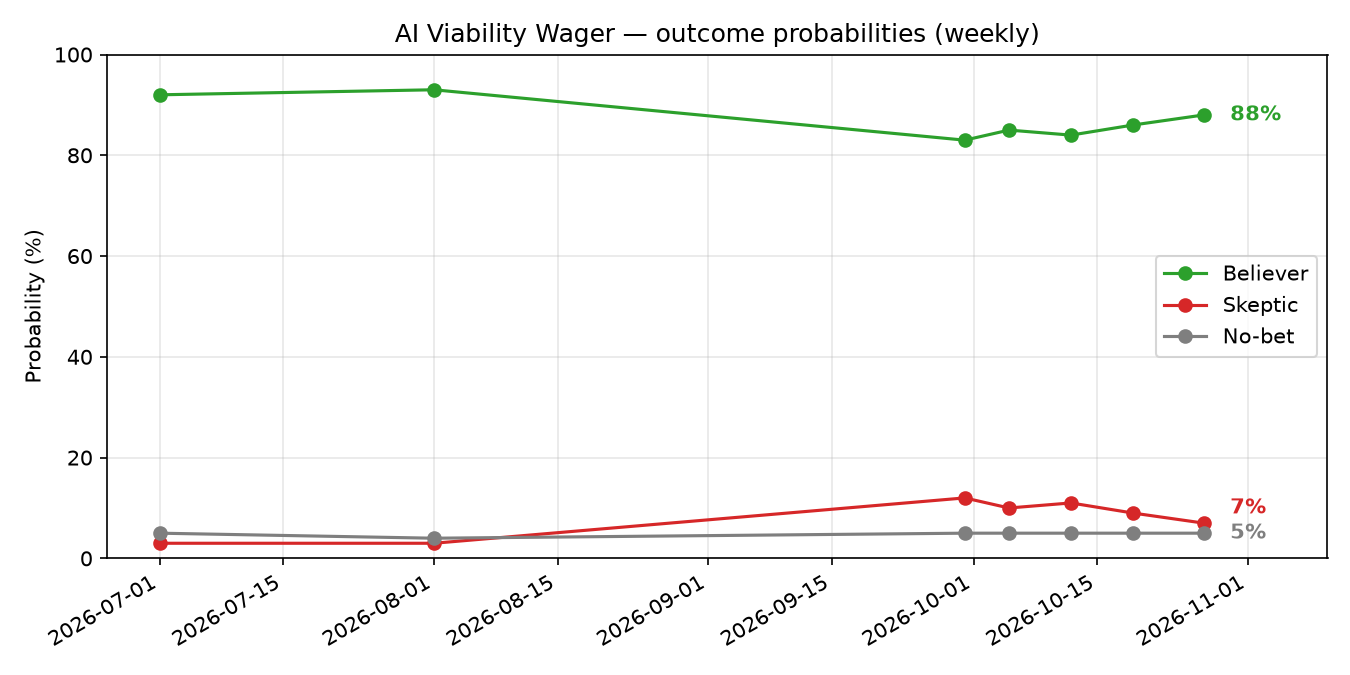
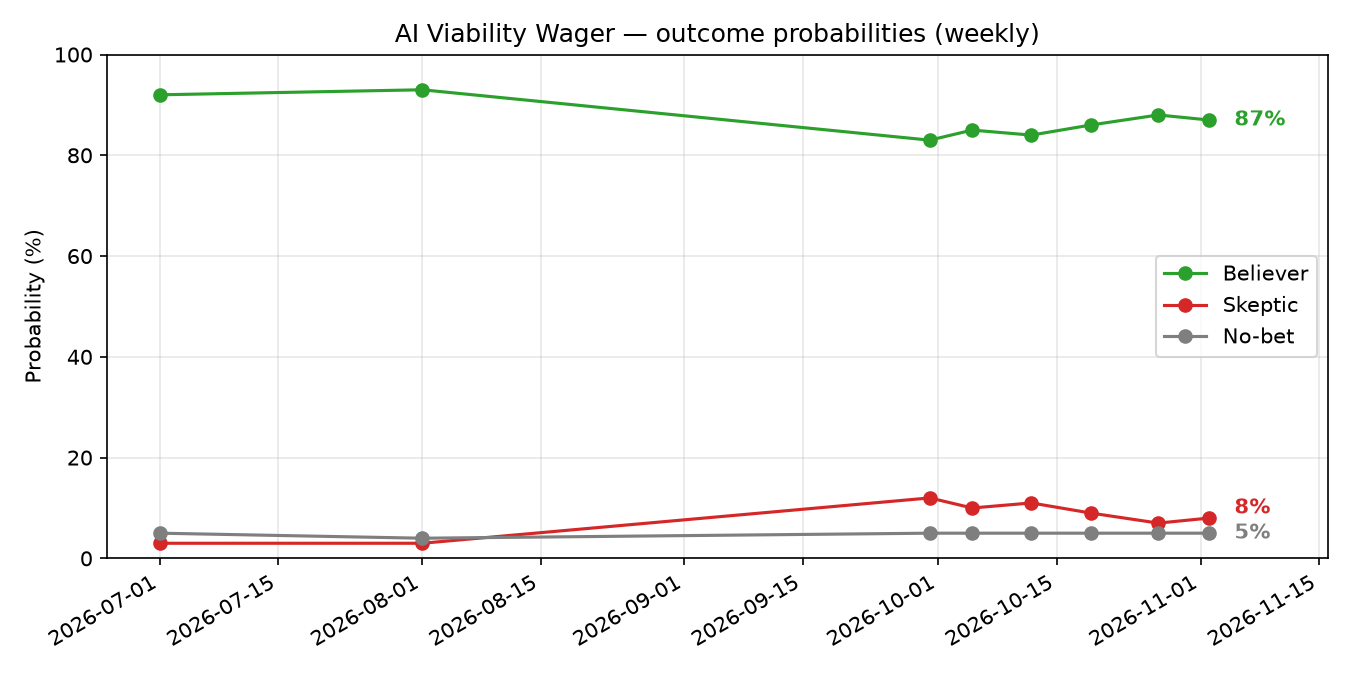
AI Viability Wager: weekly update 2026-11-02

diff --git a/ai-wager.md b/ai-wager.md
@@ -27,6 +27,12 @@ title: AI Viability Wager
 
 Newest first.
 
+### Nov 2, 2026
+
+- **Believer**: 87% &nbsp;&nbsp; **Skeptic**: 8% &nbsp;&nbsp; **No‑bet**: 5%
+- OpenAI cut its new round to ~$20B from ~$30B at a $1.25T post-money valuation as some investors trimmed allocations, with the first close expected below $20B (FT, CNBC, Oct 31).
+- A tech selloff left the Nasdaq 7.8% below its Oct 6 high, while Anthropic's IPO stayed on track: a Nov 2 filing showed up to $3.5B of shares to be sold to Japanese investors, with ~$1.5T valuations discussed (Reuters).
+
 ### Oct 27, 2026
 
 - **Believer**: 88% &nbsp;&nbsp; **Skeptic**: 7% &nbsp;&nbsp; **No‑bet**: 5%
